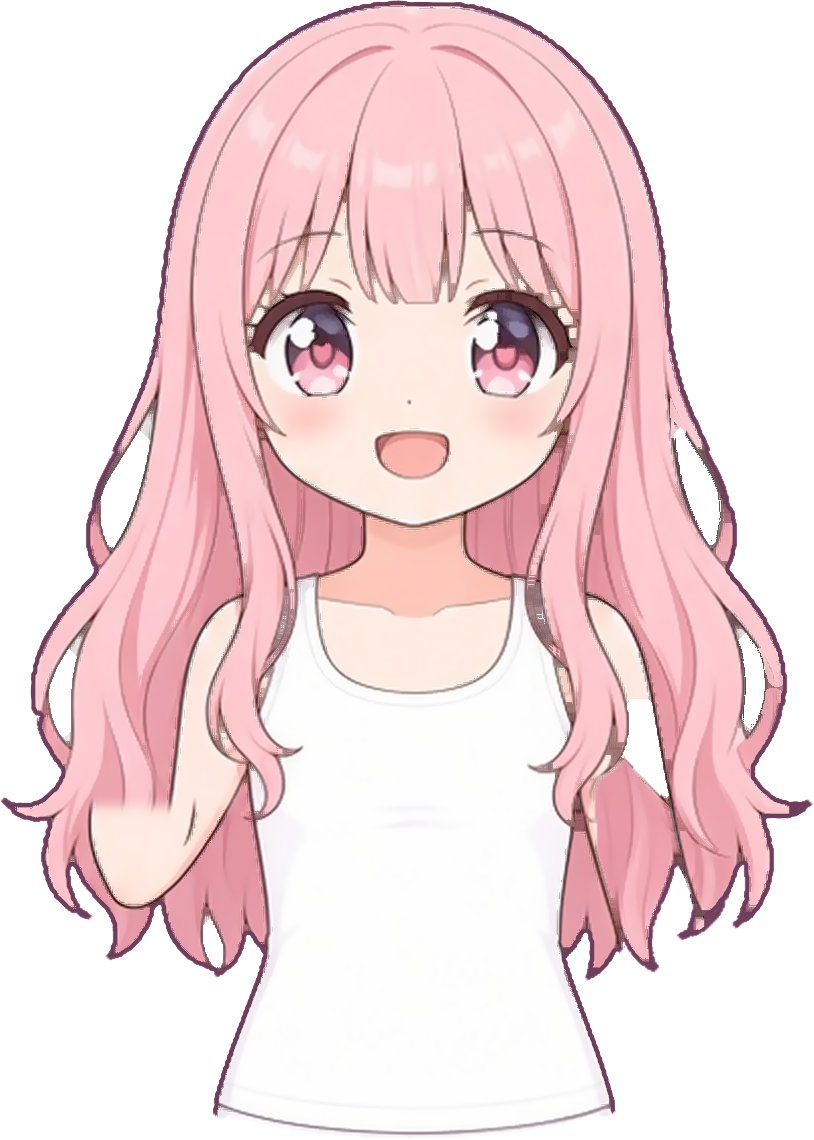
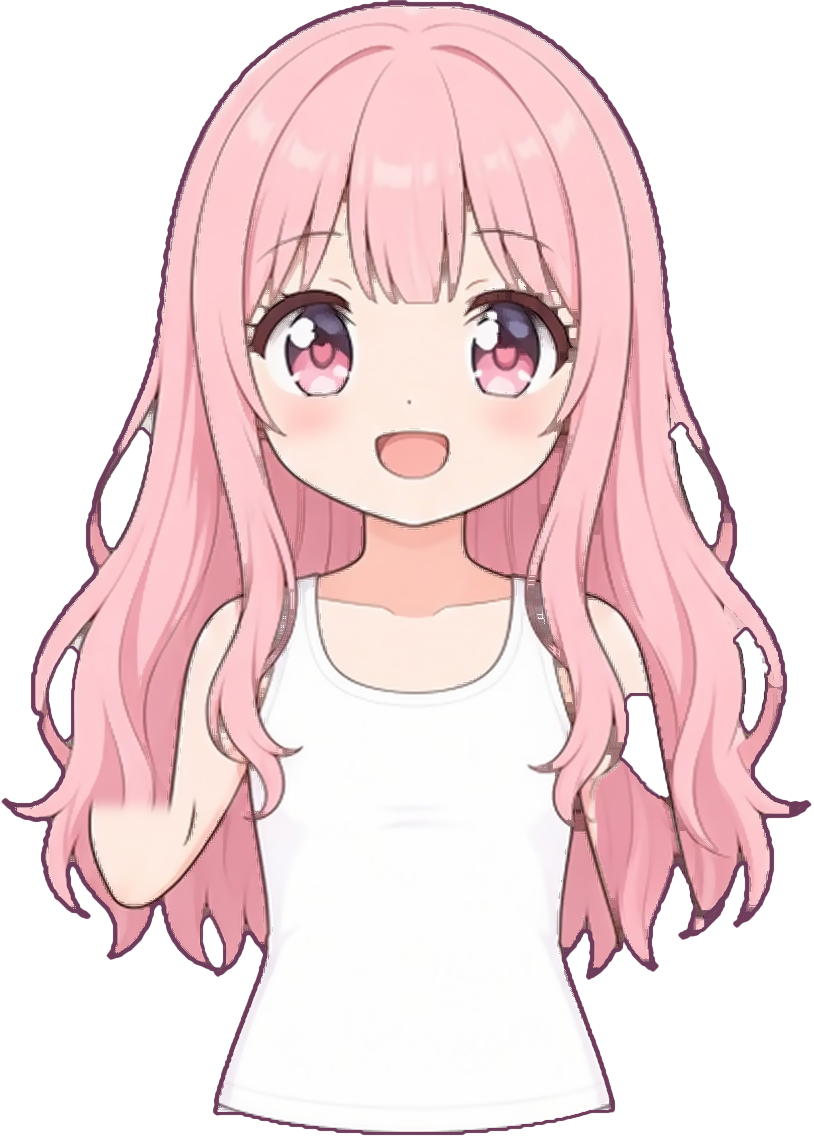
v3: 뒷머리 가장자리 안티에일리어싱·가닥 끝 선 닫기·흰 테/떠 있는 조각 제거, 5행 틈 끝 회갈색 정리, STYLE_GUIDE

diff --git a/tools/v3/touchup.py b/tools/v3/touchup.py
@@ -142,7 +142,7 @@ def reviewer_fixes():
         a,b=SK[slot][base],SK[slot][n]; return a['x']-b['x'],a['y']-b['y']
     for slot,base,fn in (('body_lower','body_lower',lambda a,dx,dy: capsule(a,(645.0+dx,97.5+dy),(645.5+dx,112+dy),2.0,(634+dx,84+dy,658+dx,108+dy))),
                          ('fit_upper','basic_upper',lambda a,dx,dy: waist_line(a,262+dx,352+dx,430.0+dy,430.5+dy,top=414+dy,bot=446+dy)),
-                         ('hair_back','hair_back',lambda a,dx,dy: unsmudge_hair(unsmudge_hair(a,(664+dx,396+dy,692+dx,438+dy),poly=[(670+dx,398+dy),(680+dx,398+dy),(686+dx,420+dy),(684+dx,440+dy),(671+dx,440+dy)]),(756+dx,648+dy,790+dx,714+dy)))):
+                         ('hair_back','hair_back',lambda a,dx,dy: unsmudge_hair(unsmudge_hair(unsmudge_hair(a,(664+dx,396+dy,692+dx,438+dy),poly=[(670+dx,398+dy),(680+dx,398+dy),(686+dx,420+dy),(684+dx,440+dy),(671+dx,440+dy)]),(756+dx,648+dy,790+dx,714+dy)),(724+dx,596+dy,758+dx,642+dy)))):
         for n in (base,base+'_wave'):
             if n not in SK[slot]: continue
             dx,dy=sh(slot,base,n); a=load(n)
@@ -159,6 +159,22 @@ def cut_rest_forearm():
         yy,xx=np.mgrid[0:a.shape[0],0:a.shape[1]]; X=xx+t['x']; Y=yy+t['y']
         m&=~(np.hypot(X-ex,Y-ey)<80)&(X<560)
         a[...,3]=np.where(m,0,a[...,3]); save(n,a)
+def hair_edge_aa(n):
+    """머리 바깥 가장자리 마감(검수3): 떠 있는 조각 제거 → 작은 빈틈 메움 → 흰 테 제거 → 가장자리 알파를 매끈한 곡선으로(안티에일리어싱)
+    → 바깥선이 빠진 곳(가닥 끝)은 원래 외곽선색 LINEC 한 줄(폭 약 4px)로 닫음. 기존 외곽선보다 밝은 곳만 어둡게."""
+    a=load(n).astype(np.float32); al=a[...,3]; A=al>128
+    lb,k=ndimage.label(A); sz=ndimage.sum(A,lb,range(1,k+1)); A=np.isin(lb,1+np.where(sz>=400)[0])
+    hl,k=ndimage.label(ndimage.binary_fill_holes(A)&~A); hs=ndimage.sum(np.ones_like(hl),hl,range(1,k+1)); A|=np.isin(hl,1+np.where(hs<120)[0])
+    A=ndimage.binary_opening(A,iterations=1)|ndimage.binary_erosion(A,iterations=2)
+    g=a[...,:3]; L=g.mean(-1); sat=g.max(-1)-g.min(-1)
+    near=A&~ndimage.binary_erosion(A,iterations=3); A&=~(near&(L>175)&(sat<70))
+    sm=cv2.GaussianBlur(A.astype(np.float32),(0,0),1.1); na=np.clip((sm-0.5)*2.4+0.5,0,1)
+    idx=ndimage.distance_transform_edt(~(A&(al>200)),return_indices=True)[1]
+    g=g[idx[0],idx[1]]
+    d=ndimage.distance_transform_edt(sm>0.5); w=np.clip(4.0-d,0,1)[...,None]*(na[...,None]>0)
+    dark=g.mean(-1,keepdims=True)>LINEC.mean()+15
+    g=np.where(dark,g*(1-w)+LINEC*w,g)
+    out=np.dstack([g,na*255]).clip(0,255).astype(np.uint8); save(n,out)
 if __name__=='__main__':
     by={}
     for n,b in ERASE: by.setdefault(n,[]).append(b)
@@ -175,6 +191,7 @@ if __name__=='__main__':
         bx=(xx+t['x']>=x0-8)&(yy+t['y']>=y0)&(yy+t['y']<y1)   # 흔드는 팔이 비켜 가며 드러나는 머리 부분만
         save(n,fill_slivers(a,box=bx))
     reviewer_fixes()
+    for n in ('hair_back','hair_back_wave'): hair_edge_aa(n)
     cut_rest_forearm()
     sync_twins()
     print('touchup ok')

diff --git a/docs/v3/STYLE_GUIDE.md b/docs/v3/STYLE_GUIDE.md
@@ -39,3 +39,12 @@
 2. **선 사이 머리 바탕색 줄**(`new_seams`): 줄 픽셀 중앙값이 머리카락 분홍(r−g>40, b>g)인 경우.
    - 예: (254,204,210). 원래 머리 그림이 엄지 끝·머리 고리 선 사이로 좁게 보이는 것이다.
    - 조각 사이 틈이나 흰 테는 흰색·회색(채도 낮음)이라 이 예외에 걸리지 않는다.
+
+## 마이크 든 팔과 머리 가장자리 (리뷰 3차)
+- 오른팔은 `skeleton.json`의 `restPose`(`forearm_r` −34°)로 팔꿈치에서 내려요. 몸 그림 속 원래 아래팔·주먹은 `touchup.py`의 `cut_rest_forearm()`이 지우고, 그 뒤 머리는 GenerateImage로 그린 `raw/hair_armdown.jpg`로 채워요(`build_v3.py`의 `armdown()`).
+- 뒷머리 바깥 가장자리는 `hair_edge_aa()`로 마감해요: 떠 있는 조각(400px 미만) 제거, 작은 틈(120px 미만) 메움, 흰 테 제거, 알파 안티에일리어싱, 선이 빠진 가닥 끝은 외곽선색(110,61,91) 약 4px 한 줄로 닫기. 앞머리(hair_front)는 얼굴 위 경계가 생기므로 적용하지 않아요.
+- 400%에서 계단 현상·흰 테가 보이면 불합격이에요.
+
+## 검사기 면제 규칙
+- 머리카락 전체 면제는 없어요.
+- 흔들기 상자 안의 분홍 이음새만, 폭 2px 이하·길이 40px 이하일 때 면제해요. 면제 건수는 보고서의 `seam_exempt_total`, `seam_exempt_frames`에 남아요.
